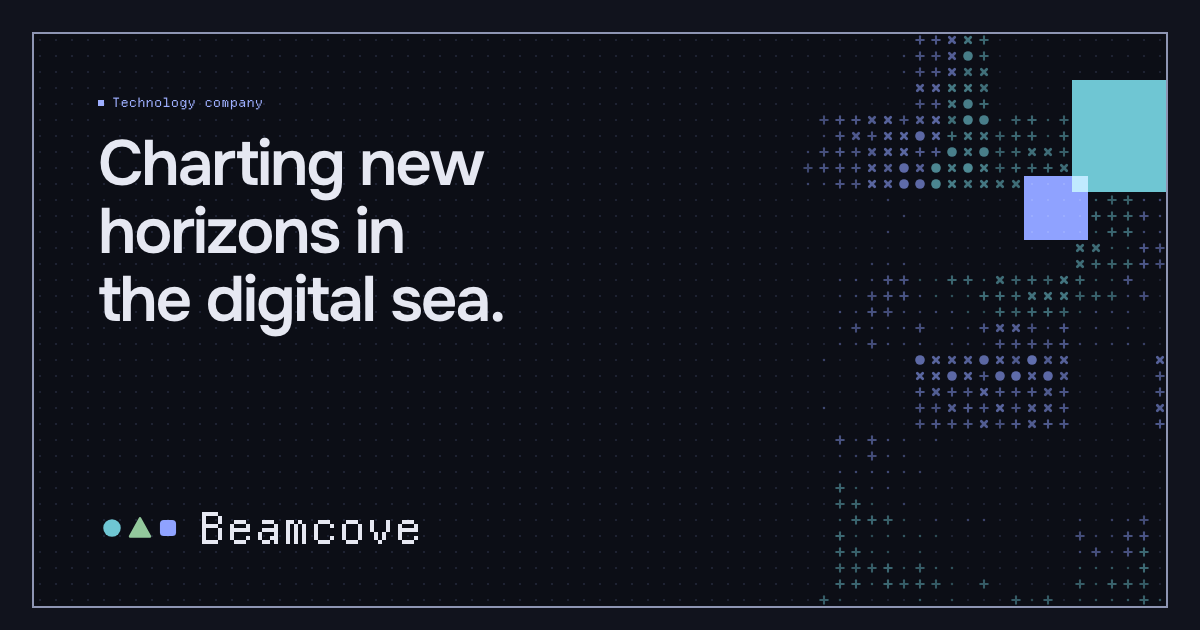
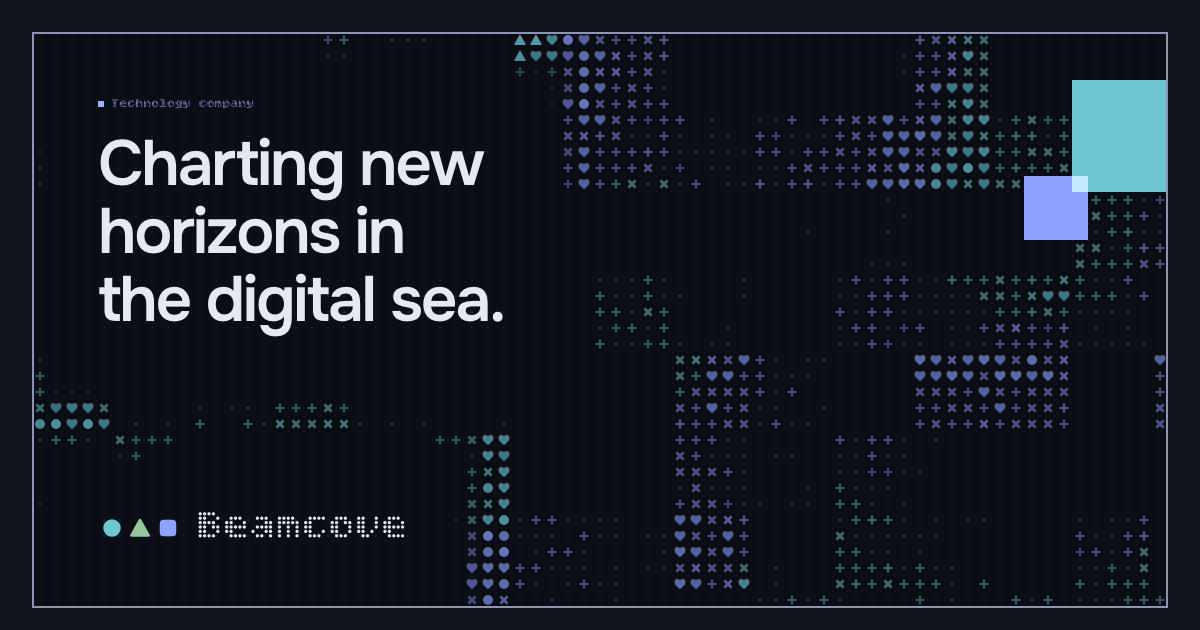
Set signals in Bitcount Grid Double, draw the wordmark in its letters
The pixel face is now Bitcount Grid Double, pinned at Light 300 (copied
from the design system). The footer's glyph wordmark takes its letters'
pixels from the font (doubled left stems, caps 6 tall) and drops the
letter-by-letter reveal, so it's one SVG again. The social card is
re-rendered in the new face.

diff --git a/src/app/components/ascii-word.tsx b/src/app/components/ascii-word.tsx
@@ -1,27 +1,28 @@
 import "./ascii-word.css";
 
-import type { CSSProperties, ReactNode } from "react";
+import type { ReactNode } from "react";
 
 import { ShapeCell, type ShapeName } from "@/design-system";
 import { hash } from "@/design-system/glyph/engine";
 
 /**
- * A 5×7 pixel face for the few words drawn in glyphs: the footer wordmark
- * and the brand pages. Each lit pixel is a symbol (● ▲ ■ ♥ ✕ +) on a 16px
- * cell; the rest is the resting dot grid. The dots are one SVG and each letter another,
- * laid over it, so a reveal can fade whole letters cheaply.
+ * The few words drawn in glyphs (the footer wordmark, the brand pages), in
+ * the letterforms of the pixel face, Bitcount Grid Double Light: each letter
+ * is its 5-wide pixel grid read from the font, caps 6 pixels tall, with the
+ * face's doubled left stems. Each lit pixel is a symbol (● ▲ ■ ♥ ✕ +) on a 16px
+ * cell; the rest is the resting dot grid. Rows run from the cap line down to
+ * the baseline. To add a letter, read its pixels from the font the same way.
  */
 const FONT: Record<string, string[]> = {
-    B: ["####.", "#...#", "#...#", "####.", "#...#", "#...#", "####."],
-    e: [".....", ".....", ".###.", "#...#", "#####", "#....", ".####"],
-    a: [".....", ".....", ".###.", "....#", ".####", "#...#", ".####"],
-    m: [".....", ".....", "##.#.", "#.#.#", "#.#.#", "#.#.#", "#.#.#"],
-    c: [".....", ".....", ".####", "#....", "#....", "#....", ".####"],
-    o: [".....", ".....", ".###.", "#...#", "#...#", "#...#", ".###."],
-    v: [".....", ".....", "#...#", "#...#", "#...#", ".#.#.", "..#.."],
-    "4": ["...#.", "..##.", ".#.#.", "#..#.", "#####", "...#.", "...#."],
-    "0": [".###.", "#...#", "#..##", "#.#.#", "##..#", "#...#", ".###."],
+    B: ["####.", "##..#", "####.", "##.##", "##..#", "####."],
+    a: [".....", ".###.", "...##", ".####", "#..##", ".##.#"],
+    c: [".....", ".####", "##...", "##...", "##..#", ".###."],
+    e: [".....", ".###.", "##..#", "#####", "##...", ".####"],
+    m: [".....", "####.", "#####", "#.#.#", "#.#.#", "#.#.#"],
+    o: [".....", ".###.", "##.##", "##..#", "##..#", ".###."],
+    v: [".....", "##..#", "##..#", "##..#", "##.#.", ".##.."],
 };
+const ROWS = 6;
 /**
  * Lit pixels are drawn from the symbol set, weighted toward the full shapes
  * (■ ● ▲, a few ♥) so the letters read solid, with ✕ and + for texture.
@@ -50,37 +51,30 @@ export function AsciiWord({
     text,
     className,
     seed = 1,
-    ...rest
 }: {
     text: string;
     className?: string;
     seed?: number;
-    "data-reveal"?: string;
 }) {
     const letters = [...text].map((ch) => FONT[ch] ?? FONT.o!);
     const cols = letters.length * 6 - 1;
     const lit = (x: number, row: number) => {
-        if (x < 0 || x >= cols || row < 0 || row > 6 || x % 6 === 5) return false;
+        if (x < 0 || x >= cols || row < 0 || row >= ROWS || x % 6 === 5) return false;
         return letters[Math.floor(x / 6)]![row]![x % 6] === "#";
     };
-    // the resting dots never change: one SVG; each letter's symbols (and its faint halo)
-    // get an SVG of their own, so a reveal fades whole letters on the compositor instead
-    // of repainting hundreds of shapes
-    const dots: ReactNode[] = [];
-    const byLetter: ReactNode[][] = letters.map(() => []);
-    for (let row = 0; row < 7; row++) {
+    const cells: ReactNode[] = [];
+    for (let row = 0; row < ROWS; row++) {
         for (let x = 0; x < cols; x++) {
             const key = `${x},${row}`;
-            const letter = byLetter[Math.min(letters.length - 1, Math.floor(x / 6))]!;
             if (lit(x, row)) {
                 const ink = INKS[Math.floor(x / 6) % INKS.length]!;
-                letter.push(
+                cells.push(
                     <g key={key} className={`px ink-${ink}`}>
                         <ShapeCell name={pick(hash(x, row, seed))} x={x * 16} y={row * 16} />
                     </g>,
                 );
             } else if (lit(x - 1, row) || lit(x + 1, row) || lit(x, row - 1) || lit(x, row + 1)) {
-                letter.push(
+                cells.push(
                     <g
                         key={key}
                         className="px g-halo"
@@ -90,7 +84,7 @@ export function AsciiWord({
                     </g>,
                 );
             } else {
-                dots.push(
+                cells.push(
                     <circle
                         key={key}
                         className="g-off"
@@ -102,27 +96,11 @@ export function AsciiWord({
             }
         }
     }
-    const share = (n: number) => `${((n * 16) / (cols * 16)) * 100}%`;
     return (
-        <div
-            {...rest}
-            className={["ascii-word", className].filter(Boolean).join(" ")}
-            aria-hidden="true"
-        >
-            <svg className="ascii-grid" viewBox={`0 0 ${cols * 16} ${7 * 16}`} focusable="false">
-                {dots}
+        <div className={["ascii-word", className].filter(Boolean).join(" ")} aria-hidden="true">
+            <svg viewBox={`0 0 ${cols * 16} ${ROWS * 16}`} focusable="false">
+                {cells}
             </svg>
-            {byLetter.map((cells, i) => (
-                <svg
-                    key={i}
-                    className="ascii-letter"
-                    viewBox={`${i * 96} 0 96 ${7 * 16}`}
-                    style={{ left: share(i * 6), width: share(6), "--i": i } as CSSProperties}
-                    focusable="false"
-                >
-                    {cells}
-                </svg>
-            ))}
         </div>
     );
 }

diff --git a/src/pages/brand.tsx b/src/pages/brand.tsx
@@ -158,7 +158,7 @@ export function BrandPage() {
                 id="wordmark"
                 kicker="Logo"
                 title="The mark and the name."
-                lead="The mark is three shapes everyone already knows, ● ▲ ■, one for each kind of work we do: everyday life, play and work, each in its own ink. It sits before the name, Beamcove, set in Departure Mono. For big moments, the name can be drawn in glyphs."
+                lead="The mark is three shapes everyone already knows, ● ▲ ■, one for each kind of work we do: everyday life, play and work, each in its own ink. It sits before the name, Beamcove, set in Bitcount Grid Double. For big moments, the name can be drawn in glyphs."
                 stacked
             >
                 <div className="wordmark-grid">
@@ -232,7 +232,7 @@ export function BrandPage() {
                 id="type"
                 kicker="Type"
                 title="Typography."
-                lead="One voice and one signal: Onest for everything you read, and Departure Mono for the small machine details around it."
+                lead="One voice and one signal: Onest for everything you read, and Bitcount Grid Double for the small machine details around it."
                 stacked
             >
                 <div className="type-grid type-grid-two">
@@ -246,7 +246,7 @@ export function BrandPage() {
                         </p>
                     </Card>
                     <Card variant="plain" data-reveal>
-                        <p className="signal muted">Departure Mono · signals</p>
+                        <p className="signal muted">Bitcount Grid Double · signals</p>
                         <p className="type-specimen type-specimen-display">01</p>
                         <p className="signal">Oct 27, 2026 · beamcove.com · {SITE.email}</p>
                         <p className="body-text">

diff --git a/src/app/styles/page.css b/src/app/styles/page.css
@@ -1541,13 +1541,13 @@ button:focus-visible {
 .motion .page-hero-copy > :nth-child(4) {
     animation-delay: 180ms;
 }
-.motion [data-reveal]:not([data-reveal="fill"]) {
+.motion [data-reveal] {
     transition:
         opacity 700ms var(--ease-out),
         translate 700ms var(--ease-out);
 }
 /* hidden only once the page's script is running (`ready`), so prerendered copy shows at once */
-.motion.ready [data-reveal]:not([data-reveal="fill"]):not(.is-in) {
+.motion.ready [data-reveal]:not(.is-in) {
     opacity: 0;
     translate: 0 24px;
 }
@@ -1565,15 +1565,6 @@ button:focus-visible {
 }
 .motion .value[data-reveal]:nth-child(3) {
     transition-delay: 320ms;
-}
-/* footer wordmark: letters light left to right, like the beam passing (whole letters, so
-   each is one fade on the compositor, not hundreds of shapes repainting) */
-.motion .footer-wordmark .ascii-letter {
-    transition: opacity 160ms steps(1, end);
-    transition-delay: calc(var(--i) * 140ms);
-}
-.motion.ready .footer-wordmark:not(.is-in) .ascii-letter {
-    opacity: 0;
 }
 
 /* ── Smaller screens ──────────────────────────────── */

diff --git a/src/content/design.ts b/src/content/design.ts
@@ -15,7 +15,7 @@ export const DESIGN_PRINCIPLES = [
     },
     {
         title: "One voice, one signal.",
-        body: "Onest for everything you read. Departure Mono only for the small machine details: kickers, dates, numbers.",
+        body: "Onest for everything you read. Bitcount Grid Double only for the small machine details: kickers, dates, numbers.",
     },
     {
         title: "Shapes everyone knows.",
@@ -40,7 +40,7 @@ export const TYPE_SPECIMENS = [
     },
     { cls: "body", note: "Onest 16", sample: "Body copy sits beside titles and inside cards." },
     { cls: "label", note: "Onest 14 / 500", sample: "Form label" },
-    { cls: "signal", note: "Departure Mono 13", sample: "01 · What we do · Oct 27, 2026" },
-    { cls: "signal-lg", note: "Departure Mono 22", sample: "01 / 03" },
-    { cls: "signal-xl", note: "Departure Mono 44", sample: "99.9" },
+    { cls: "signal", note: "Bitcount Grid Double 13", sample: "01 · What we do · Oct 27, 2026" },
+    { cls: "signal-lg", note: "Bitcount Grid Double 22", sample: "01 / 03" },
+    { cls: "signal-xl", note: "Bitcount Grid Double 44", sample: "99.9" },
 ] as const;

diff --git a/src/design-system/tokens.css b/src/design-system/tokens.css
@@ -8,9 +8,9 @@
     font-display: swap;
 }
 @font-face {
-    font-family: "Departure Mono";
-    src: url("fonts/DepartureMono-Regular.woff2") format("woff2");
-    font-weight: 400;
+    font-family: "Bitcount Grid Double";
+    src: url("fonts/BitcountGridDouble-Light.woff2") format("woff2");
+    font-weight: 100 900;
     font-style: normal;
     font-display: swap;
 }
@@ -59,7 +59,7 @@
 
 :root {
     --font-sans: "Onest", ui-sans-serif, system-ui, -apple-system, "Segoe UI", sans-serif;
-    --font-pixel: "Departure Mono", ui-monospace, SFMono-Regular, Menlo, monospace;
+    --font-pixel: "Bitcount Grid Double", ui-monospace, SFMono-Regular, Menlo, monospace;
     --font-display: var(--font-pixel);
     --space-0-5: 2px;
     --space-1: 4px;

diff --git a/src/pages/design.tsx b/src/pages/design.tsx
@@ -408,7 +408,7 @@ export function DesignPage() {
                 id="type"
                 eyebrow="Type"
                 title="Two faces."
-                lead="Onest for everything you read. Departure Mono only for signals: kickers, dates, numbers, tags and the wordmark, at 13px for labels and 22 or 44px for numbers. Each block switches face at most once."
+                lead="Onest for everything you read. Bitcount Grid Double only for signals: kickers, dates, numbers, tags and the wordmark, at 13px for labels and 22 or 44px for numbers. Each block switches face at most once."
             >
                 <ul className="type-scale">
                     {TYPE_SPECIMENS.map((t) => (

diff --git a/src/app/components/ascii-word.css b/src/app/components/ascii-word.css
@@ -1,17 +1,9 @@
-/* AsciiWord: a word drawn on a 5×7 grid of symbols, one SVG. Loaded by the component
-   itself, so it works on any page. Tokens only. */
+/* AsciiWord: a word drawn in glyphs, in the pixel face's letterforms, one SVG. Loaded
+   by the component itself, so it works on any page. Tokens only. */
 .ascii-word {
-    position: relative;
     width: 100%;
 }
-/* one letter's symbols, over its own columns of the grid */
-.ascii-letter {
-    position: absolute;
-    top: 0;
-    height: 100%;
-    overflow: visible;
-}
-.ascii-grid {
+.ascii-word svg {
     display: block;
     width: 100%;
     height: auto;

diff --git a/src/app/components/site-footer.tsx b/src/app/components/site-footer.tsx
@@ -39,7 +39,7 @@ export function SiteFooter() {
                         ))}
                     </nav>
                 </div>
-                <AsciiWord text="Beamcove" className="footer-wordmark" data-reveal="fill" />
+                <AsciiWord text="Beamcove" className="footer-wordmark" />
                 <p className="footer-bottom">
                     <span>
                         © {new Date().getFullYear()} {SITE.legalName} ·{" "}

diff --git a/CLAUDE.md b/CLAUDE.md
@@ -35,8 +35,9 @@ Node >= 22. A lefthook pre-commit hook blocks unformatted commits.
    `design-system` repo (prettier-ignored) — re-copy, don't hand-edit. Follow its
    rules: tokens never hex, sentence case, one theme (Midnight, no picker,
    nothing stored on the device). **Two faces only:** Onest for everything you
-   read; Departure Mono only for signals (kickers, dates, numbers, tags, the
-   wordmark) at 13px for labels, 22 or 44px for numbers. Buttons and controls are solid, never outlined.
+   read; Bitcount Grid Double, pinned at Light 300 (never heavier), only for
+   signals (kickers, dates, numbers, tags, the wordmark) at 13px for labels, 22 or
+   44px for numbers. The glyph wordmark copies its letterforms. Buttons and controls are solid, never outlined.
    Glyphs are chunky (bold, round); symbols are only universal shapes (`Shape`:
    ● ▲ ■ ♥ ✕ + —). The mark is ● ▲ ■ in inks b, e, a; never draw new symbols.
 3. **The page is the grid.** One 16px dot matrix, drawn once on `<html>`,
@@ -98,7 +99,7 @@ layout reads while scrolling, no layout shift. See docs/architecture.md →
   pieces (kind-cards, statements, value-list), plus scenes (every
   screen's glyph art), ascii-word (glyph wordmark), icon (renders Lucide icon
   nodes), brand (social SVGs).
-- `src/design-system/` — Signal tokens, CSS, fonts (Onest, Departure Mono),
+- `src/design-system/` — Signal tokens, CSS, fonts (Onest, Bitcount Grid Double),
   typed component port (Screen, Field, LitLine, ChapterRail, …) and the glyph
   engine, page lattice and painter (`glyph/`). `/design/` shows every piece: it's
   debug-only (`DEBUG_ROUTES`, the dev server and `build:debug`), and production

diff --git a/src/design-system/README.md b/src/design-system/README.md
@@ -8,7 +8,7 @@ splash per view, tokens never hex, ink slots in art, sentence case, etc.
 | ---------------- | ---------------------------------------- | ------------------------------- |
 | `tokens.css`     | `tokens.css` (built from `tokens.json`)  | no — copy again on update       |
 | `components.css` | `components/bundle.css`                  | no — copy again on update       |
-| `fonts/`         | `fonts/` (Onest, Departure Mono)         | no                              |
+| `fonts/`         | `fonts/` (Onest, Bitcount Grid Double)   | no                              |
 | `components/`    | typed TSX port                           | yes — the source of `bundle.js` |
 | `glyph/`         | the glyph engine (noise, ramps, drawing) | yes — the source of `bundle.js` |
 

diff --git a/docs/deployment.md b/docs/deployment.md
@@ -42,7 +42,7 @@ cancels superseded in-flight runs, so rapid pushes deploy only the latest commit
 
 1. The _Deploy_ run is green in the Actions tab.
 2. beamcove.com serves the new build (hard-refresh; HTML is cached briefly).
-3. Spot-check: fonts (Departure Mono / JetBrains Mono / Onest), the hero glyph
+3. Spot-check: fonts (Bitcount Grid Double / JetBrains Mono / Onest), the hero glyph
    field and beam, icons, the newsletter field, the theme picker, a couple of inner
    pages (e.g. `/projects/`, `/privacy/`) and a missing path (should show “Off the
    map”).

diff --git a/docs/architecture.md b/docs/architecture.md
@@ -17,7 +17,7 @@ in Notion; keep `src/content/` in step with it.
 
 It is built on the Beamcove design system, **Signal** (a night sky, a lighthouse
 and a field of glyphs: one dark theme, one dot grid through every page that
-each section prints its own glyph scene onto, Departure Mono + JetBrains Mono + Onest). A copy lives in
+each section prints its own glyph scene onto, Bitcount Grid Double + JetBrains Mono + Onest). A copy lives in
 [`src/design-system/`](../src/design-system/README.md), and `/design/` shows every
 piece of it.
 
